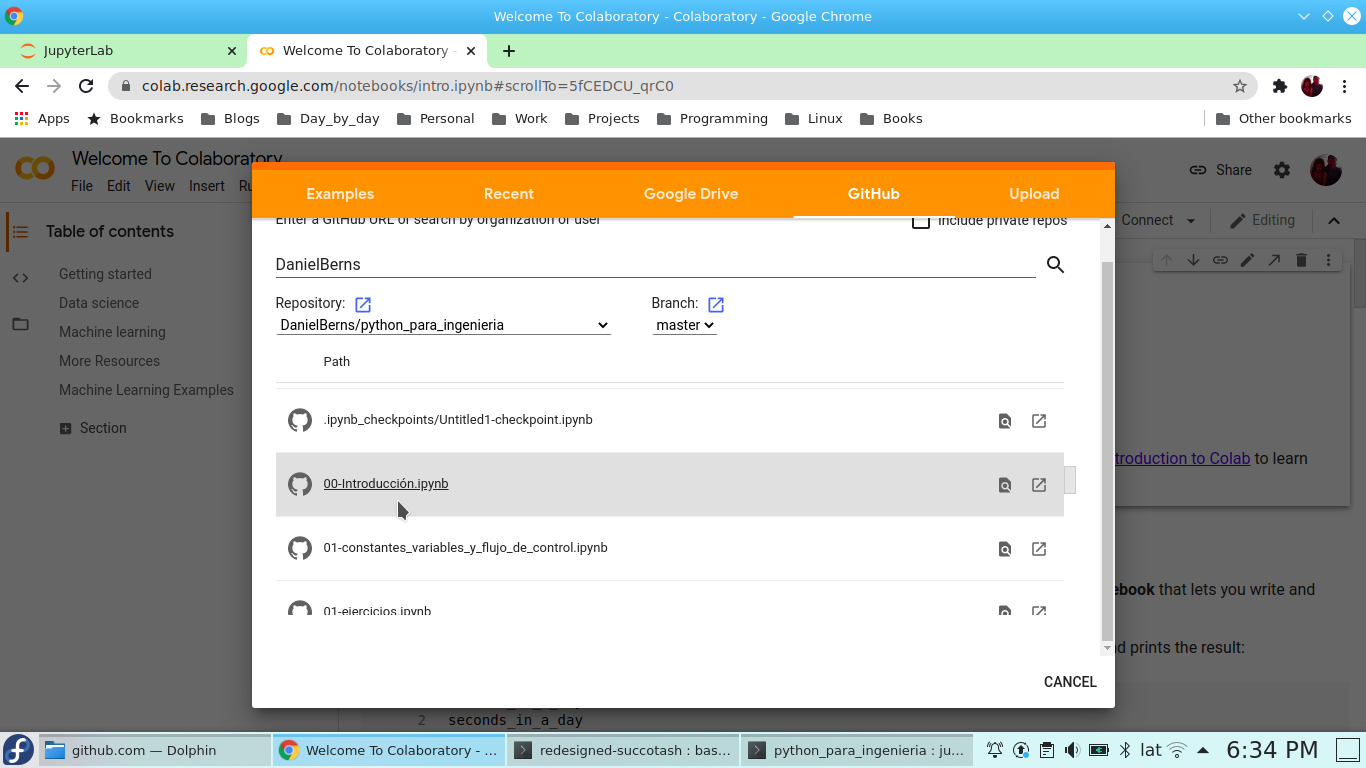
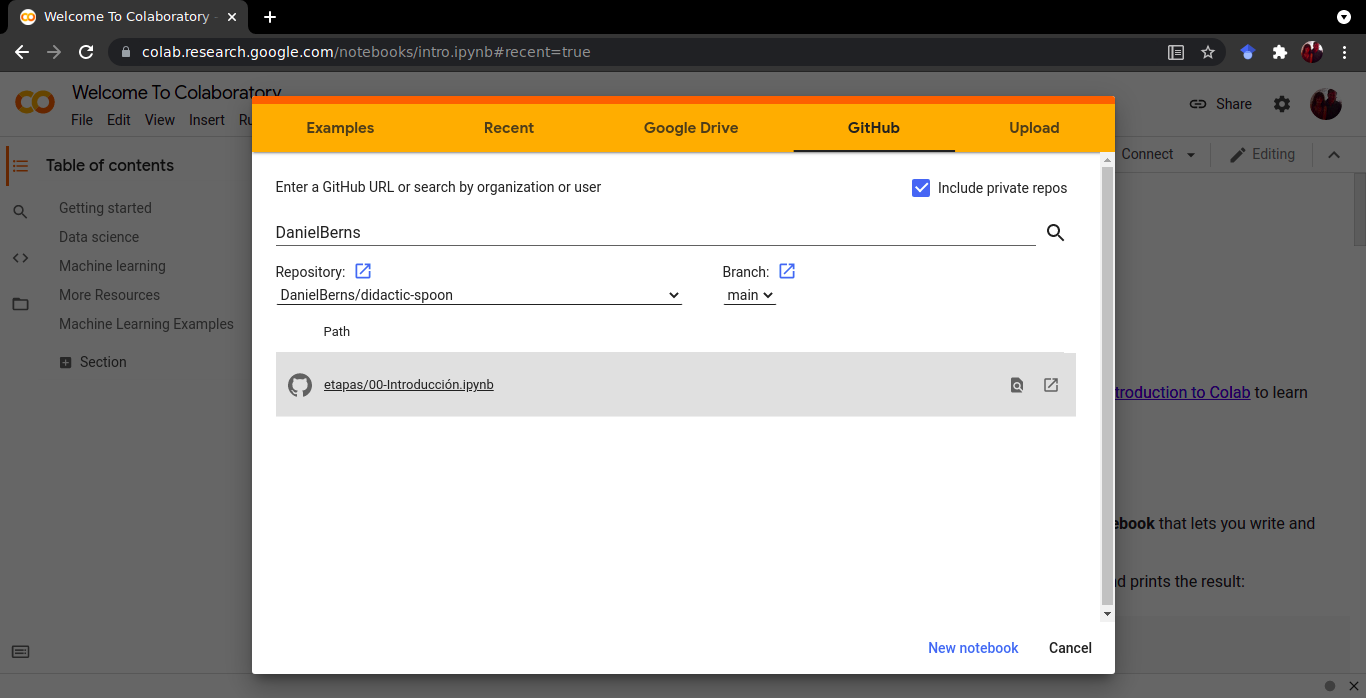
didactic-spoon en lugar de python-para-ingenieria

diff --git a/LEAME.md b/LEAME.md
@@ -15,5 +15,5 @@ o podemos descargar archivos
 Vamos a descargar archivos del curso que están en [Github](https://github.com/DanielBerns/didactic-spoon)
 ![Cuaderno nuevo](./imagenes/delta.png)
 
-Comenzaremos por el archivo 00-Introducción.ipynb
+Comenzaremos por el archivo etapas/00-Introducción.ipynb
 ![Google Colab](./imagenes/echo.png)
